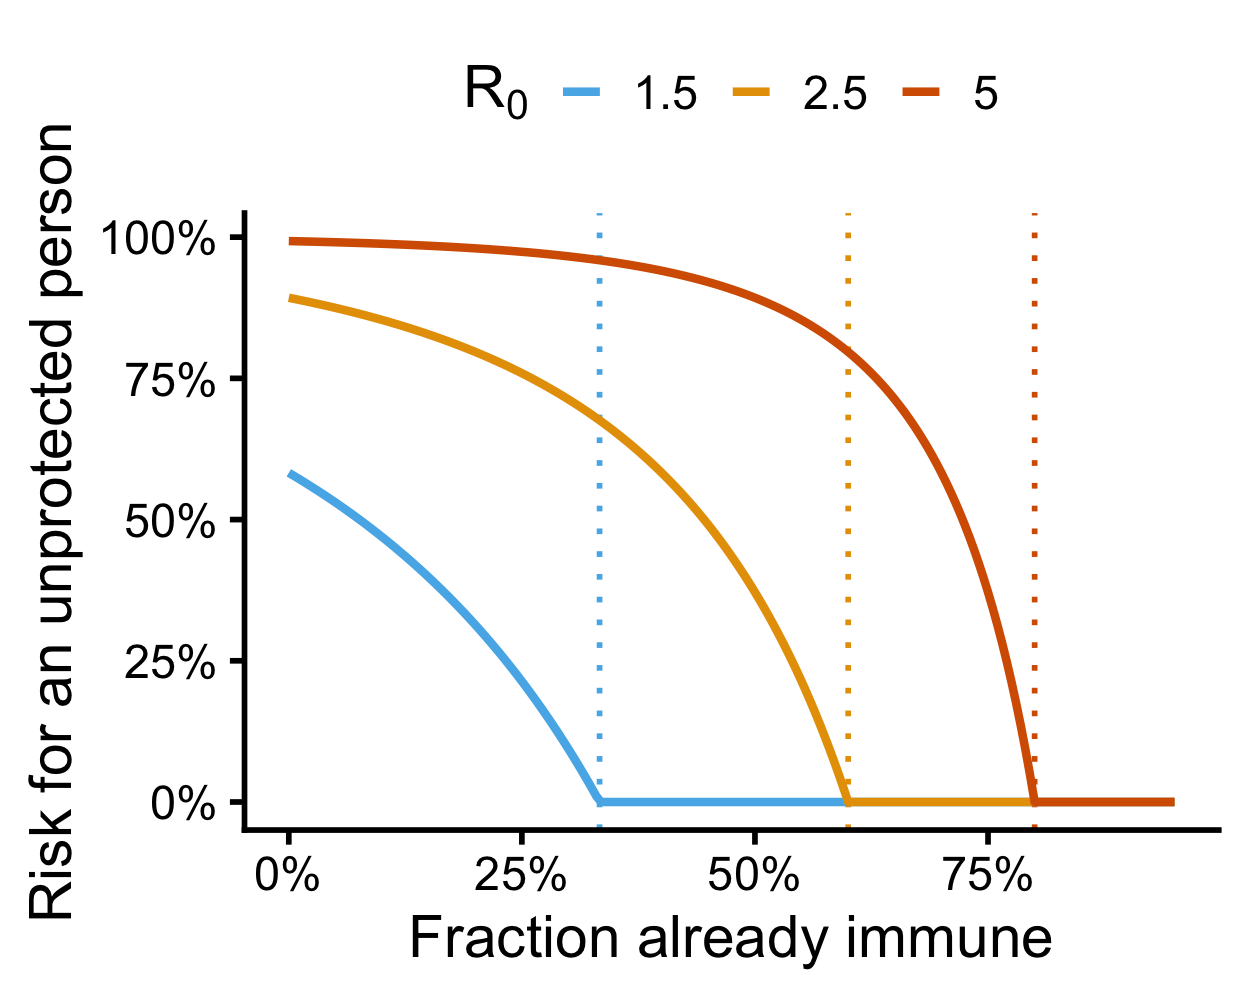
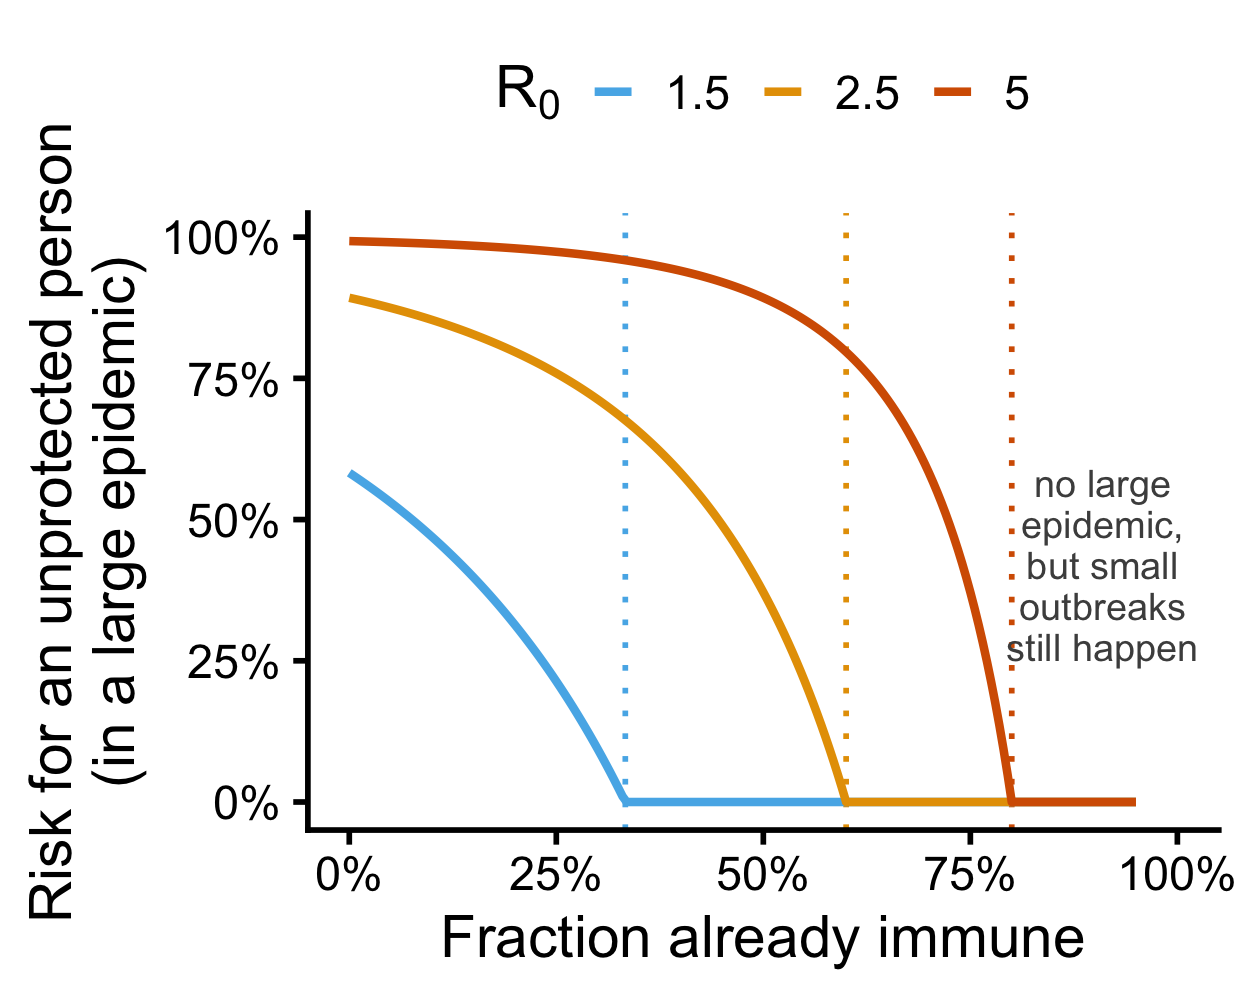
Built site for gh-pages

diff --git a/slides/L1-compartment-models.html b/slides/L1-compartment-models.html
@@ -641,7 +641,7 @@ I + S - \frac{\ln S}{R_0} = \text{const} = 1 \quad (\text{at the start: } S = 1,
 <div class="column" style="width:45%;">
 <p><strong>The idea:</strong> immune people do not just protect themselves. They also <em>block chains of transmission</em> to others.</p>
 <p>An infected person meets others at random, and only a fraction <span class="math inline">\(S\)</span> of contacts can be infected: <span class="math inline">\(R_t = R_0\, S\)</span>.</p>
-<p>Once enough people are immune that <span class="math inline">\(R_t &lt; 1\)</span>, every chain <strong>dies out on its own</strong>, and non-immune people are protected <em>indirectly</em>:</p>
+<p>Once enough people are immune that <span class="math inline">\(R_t &lt; 1\)</span>, chains still start but <strong>die out after a few infections</strong>. A <em>large</em> epidemic is no longer possible, and non-immune people are protected <em>indirectly</em>:</p>
 <p><span class="math display">\[
 \text{immune fraction} &gt; \boxed{1 - \frac{1}{R_0}}
 \]</span></p>
@@ -656,13 +656,13 @@ I + S - \frac{\ln S}{R_0} = \text{const} = 1 \quad (\text{at the start: } S = 1,
 </div>
 </div>
 </div>
-<p>Risk that a <strong>non-immune</strong> person gets infected, <span class="math inline">\(1 - z = e^{-R_0(1-p)z}\)</span>. It drops to zero at the threshold (dotted).</p>
+<p>Risk that a <strong>non-immune</strong> person is infected <em>in a large epidemic</em>, <span class="math inline">\(1 - z = e^{-R_0(1-p)z}\)</span>. Above the threshold (dotted) large epidemics stop, but each introduced case still infects on average <span class="math inline">\(R_t/(1-R_t)\)</span> others (4 at <span class="math inline">\(R_t = 0.8\)</span>).</p>
 </div></div>
 </section>
 <section id="what-herd-immunity-does-not-mean" class="slide level2 smaller">
 <h2>What herd immunity does <em>not</em> mean</h2>
 <ul>
-<li><strong>It is a threshold for growth, not a force field.</strong> Above it, an introduced case still infects some people. Chains just shrink instead of growing. Below it, partial immunity still helps: at 50% immunity and <span class="math inline">\(R_0 = 2.5\)</span>, an unprotected person’s risk falls from 89% to 37%.</li>
+<li><strong>It is a threshold for growth, not a force field.</strong> The risk on the previous slide only counts <em>large</em> epidemics. Above the threshold an introduced case still infects <span class="math inline">\(R_t/(1-R_t)\)</span> people on average, and close to the threshold these chains are long. Chains shrink instead of growing. Below it, partial immunity still helps: at 50% immunity and <span class="math inline">\(R_0 = 2.5\)</span>, an unprotected person’s risk falls from 89% to 37%.</li>
 </ul>
 <div class="fragment">
 <ul>

diff --git a/days/day-1.html b/days/day-1.html
@@ -320,7 +320,7 @@ window.Quarto = {
 </section>
 <section id="project-menu-and-teams" class="level2">
 <h2 class="anchored" data-anchor-id="project-menu-and-teams">11:30 · Project menu and teams</h2>
-<p>Look at the <a href="../projects/index.html#menu">project menu</a>. Form teams of 3–5. Over lunch, agree on <em>one</em> question.</p>
+<p>Look at the <a href="../projects/index.html#menu">project menu</a>. Form teams of 3–5 and agree on <em>one</em> question before lunch.</p>
 </section>
 <section id="pitch-1-the-question" class="level2 block-pitch">
 <h2 class="block-pitch anchored" data-anchor-id="pitch-1-the-question">13:00 · Pitch 1 — The question</h2>
@@ -874,7 +874,7 @@ window.document.addEventListener("DOMContentLoaded", function (event) {
 <span id="cb1-46"><a href="#cb1-46" aria-hidden="true" tabindex="-1"></a></span>
 <span id="cb1-47"><a href="#cb1-47" aria-hidden="true" tabindex="-1"></a><span class="fu">## 11:30 · Project menu and teams</span></span>
 <span id="cb1-48"><a href="#cb1-48" aria-hidden="true" tabindex="-1"></a></span>
-<span id="cb1-49"><a href="#cb1-49" aria-hidden="true" tabindex="-1"></a>Look at the <span class="co">[</span><span class="ot">project menu</span><span class="co">](../projects/index.qmd#menu)</span>. Form teams of 3–5. Over lunch, agree on *one* question.</span>
+<span id="cb1-49"><a href="#cb1-49" aria-hidden="true" tabindex="-1"></a>Look at the <span class="co">[</span><span class="ot">project menu</span><span class="co">](../projects/index.qmd#menu)</span>. Form teams of 3–5 and agree on *one* question before lunch.</span>
 <span id="cb1-50"><a href="#cb1-50" aria-hidden="true" tabindex="-1"></a></span>
 <span id="cb1-51"><a href="#cb1-51" aria-hidden="true" tabindex="-1"></a><span class="fu">## 13:00 · Pitch 1 — The question {.block-pitch}</span></span>
 <span id="cb1-52"><a href="#cb1-52" aria-hidden="true" tabindex="-1"></a></span>

diff --git a/schedule.html b/schedule.html
@@ -328,7 +328,7 @@ Note
 <tr class="even">
 <td>12:00–13:00</td>
 <td>Lunch</td>
-<td>talk about ideas</td>
+<td></td>
 </tr>
 <tr class="odd">
 <td>13:00–13:30</td>
@@ -949,7 +949,7 @@ window.document.addEventListener("DOMContentLoaded", function (event) {
 <span id="cb1-17"><a href="#cb1-17" aria-hidden="true" tabindex="-1"></a>| 10:15–10:30 | Break | |</span>
 <span id="cb1-18"><a href="#cb1-18" aria-hidden="true" tabindex="-1"></a>| 10:30–11:30 | <span class="co">[</span><span class="ot">**Lecture 2** — When chance decides</span><span class="co">]</span>{.block-lecture} | branching processes: epidemic takeoff *and* evolution of resistance |</span>
 <span id="cb1-19"><a href="#cb1-19" aria-hidden="true" tabindex="-1"></a>| 11:30–12:00 | Project menu, form teams (3–5) | |</span>
-<span id="cb1-20"><a href="#cb1-20" aria-hidden="true" tabindex="-1"></a>| 12:00–13:00 | Lunch | talk about ideas |</span>
+<span id="cb1-20"><a href="#cb1-20" aria-hidden="true" tabindex="-1"></a>| 12:00–13:00 | Lunch | |</span>
 <span id="cb1-21"><a href="#cb1-21" aria-hidden="true" tabindex="-1"></a>| 13:00–13:30 | <span class="co">[</span><span class="ot">**Pitch 1 — The question**</span><span class="co">]</span>{.block-pitch} | 2 min per team |</span>
 <span id="cb1-22"><a href="#cb1-22" aria-hidden="true" tabindex="-1"></a>| 13:30–15:00 | <span class="co">[</span><span class="ot">**Work block 1**</span><span class="co">]</span>{.block-work} | T0, T1 and T2 as warm-up, then your project |</span>
 <span id="cb1-23"><a href="#cb1-23" aria-hidden="true" tabindex="-1"></a></span>
